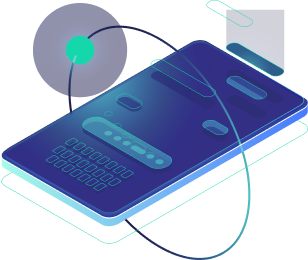
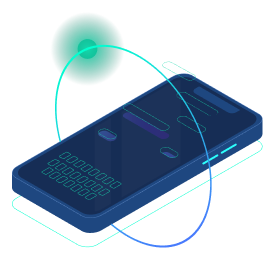
update home

diff --git a/components/pages/home/index.scss b/components/pages/home/index.scss
@@ -42,7 +42,7 @@
         left: 0;
         width: 100%;
         height: 100%;
-        background: linear-gradient(to right,#1f61be98 5%, #024a9230 50%);
+        background: linear-gradient(to right, #1f61be98 5%, #024a9230 50%);
         opacity: 0.5;
       }
       .banner-content {
@@ -124,28 +124,12 @@
     }
 
     .media {
-      padding-bottom: rem(62);
+      padding: rem(50);
       position: relative;
 
       .image {
         height: auto !important;
-        margin: 0 auto;
         max-width: 100%;
-      }
-      .gradient-shadow {
-        height: 80vw;
-        left: -5%;
-        position: absolute;
-        top: -15%;
-        // transform: translate(-50%, -50%);
-        width: 80vw;
-        &::before {
-          height: 80vw;
-          width: 80vw;
-        }
-        &::after {
-          display: none;
-        }
       }
     }
 
@@ -361,28 +345,30 @@
       justify-content: center;
       margin-top: rem(48);
 
-      .image {
-        margin: 0 auto rem(24);
-      }
-
-      .title {
-        font-size: rem(22);
-        font-weight: 700;
-      }
-
-      .desc {
-        font-size: rem(14);
-        font-weight: 400;
-        line-height: rem(22);
-        margin-top: rem(8);
-      }
-
       li {
-        background-color: rgba($color: $gray-1, $alpha: 0.05);
+        background-color: rgba($color: $blue-light, $alpha: 0.05);
         border: solid rem(1) rgba($color: $gray-1, $alpha: 0.1);
         border-radius: rem(16);
-        padding: rem(24) rem(16);
+        padding: rem(114) rem(16) rem(34) rem(16);
         text-align: start;
+        position: relative;
+        .image {
+          position: absolute;
+          right: 0;
+          top: 0;
+        }
+
+        .title {
+          font-size: rem(36);
+          font-weight: 700;
+        }
+
+        .desc {
+          font-size: rem(16);
+          font-weight: 400;
+          line-height: rem(22);
+          margin-top: rem(8);
+        }
       }
     }
   }
@@ -631,7 +617,7 @@
       }
 
       li {
-        background-color: rgba($color: $gray-1, $alpha: 0.05);
+        background-color: rgba($color: $blue-light, $alpha: 0.05);
         border: solid rem(1) rgba($color: $gray-1, $alpha: 0.1);
         border-radius: rem(16);
         padding: rem(24) rem(16) rem(16);
@@ -685,19 +671,18 @@
         left: 0;
         right: 0;
         bottom: 0;
-        background-image: url("/images/home/call-to-action-bg.png");
-        border-radius: 0 0 rem(16) rem(16);
+        border-radius: 0 0 1rem 1rem;
         background-size: 100% 100%;
         background-repeat: no-repeat;
         background-position: center bottom;
-        width: 100%;
+        width: 89%;
         padding-bottom: rem(30);
-        padding-top: 17%;
         z-index: -2;
+        margin: auto;
         .image {
-          margin: 0 auto;
+          margin: auto;
           height: auto !important;
-          max-width: 30%;
+          max-width: 90%;
         }
       }
     }
@@ -724,7 +709,7 @@
 
     .introduction {
       .media {
-        padding-bottom: rem(102);
+        padding: rem(100);
       }
 
       .banner {
@@ -755,12 +740,6 @@
       .wrapper {
         justify-content: center;
         padding: rem(64) rem(32) 90% rem(32);
-        .img-wrapper {
-          padding-top: 10%;
-          .image {
-            max-width: 35%;
-          }
-        }
       }
     }
   }
@@ -803,7 +782,7 @@
         }
       }
       .media {
-        padding-bottom: rem(150);
+        padding: rem(200);
       }
 
       .banner {
@@ -859,12 +838,6 @@
       }
       .wrapper {
         justify-content: center;
-        padding: rem(64) rem(32) 70% rem(32);
-        .img-wrapper {
-          .image {
-            max-width: 30%;
-          }
-        }
       }
     }
   }
@@ -942,12 +915,12 @@
       }
 
       .media {
-        padding-bottom: 0;
+        padding: rem(150);
         position: absolute;
         bottom: rem(30);
         right: -5%;
         max-width: 60%;
-        top: 54%;
+        top: 48%;
 
         .image {
           height: auto !important;
@@ -1005,6 +978,9 @@
       .list {
         li {
           width: calc(100% / 3 - rem(32 * 2 / 3));
+          .image {
+            z-index: -1;
+          }
         }
       }
     }
@@ -1087,29 +1063,28 @@
         min-height: rem(478);
         padding: rem(64) 50% rem(64) rem(64);
         background-size: 80% 100%;
-        background-image: url("/images/home/call-to-action-bg.png");
         background-repeat: no-repeat;
         background-position: right bottom;
-
+        overflow: hidden;
+        top: -20%;
         .heading {
           text-align: left;
         }
         .img-wrapper {
-          background-image: none;
-          top: 0;
-          // left: 0;
-          margin: 0;
-          padding-top: 2%;
-          z-index: 3;
-          max-width: 50%;
-          transform: translateX(90%);
-          .image {
-            margin-top: 3%;
-            // margin-left: 60%;
-            max-width: rem(200) !important;
-          }
+          left: unset;
+          right: -8%;
+          width: 79%;
+          top: -102px;
         }
       }
+    }
+  }
+}
+
+@media (min-width: rem(1100)) {
+  .introduction {
+    .media {
+      padding: rem(250);
     }
   }
 }
@@ -1135,17 +1110,17 @@
       }
 
       .media {
-        padding-bottom: 0;
         position: absolute;
         bottom: rem(30);
-        right: -3%;
-        top: 50%;
+        right: 10%;
+        top: 25%;
+        padding: rem(360);
 
         .image {
           height: auto !important;
           margin: 0 auto;
           // width: 80%;
-          max-width: rem(906);
+          max-width: rem(380);
         }
         .gradient-shadow {
           height: 80vw;
@@ -1242,13 +1217,6 @@
         }
       }
     }
-    .call-to-action {
-      .wrapper {
-        .image {
-          max-width: 16% !important;
-        }
-      }
-    }
   }
 }
 
@@ -1275,15 +1243,6 @@
       .text {
         font-size: rem(20);
       }
-
-      .media {
-        padding-bottom: 0;
-        position: absolute;
-        bottom: rem(30);
-        right: -5%;
-        // max-width: 80%;
-        top: 55%;
-      }
     }
     .description {
       .media {
@@ -1300,20 +1259,6 @@
     .introduction {
       .slogan {
         font-size: rem(88);
-      }
-
-      .media {
-        padding-bottom: 0;
-        position: absolute;
-        bottom: rem(30);
-        right: -15%;
-        // max-width: 80%;
-        top: 57%;
-
-        .image {
-          height: auto !important;
-          margin: 0 auto;
-        }
       }
     }
     .description {

diff --git a/components/pages/home/index.tsx b/components/pages/home/index.tsx
@@ -19,23 +19,23 @@ export default function Component() {
                 {content.banner.button}
               </Link>
             </div>
-            <div className="bg">
-            </div>
-              <Image
-                src="/images/home/circle-top.png"
-                alt=""
-                className="circle-top"
-                height={300}
-                width={600}
-              />
-              <Image
-                src="/images/home/circle-bottom.png"
-                alt=""
-                className="circle-bottom"
-                height={300}
-                width={600}
-              />
+            <div className="bg"></div>
+            <Image
+              src="/images/home/circle-top.png"
+              alt=""
+              className="circle-top"
+              height={300}
+              width={600}
+            />
+            <Image
+              src="/images/home/circle-bottom.png"
+              alt=""
+              className="circle-bottom"
+              height={300}
+              width={600}
+            />
           </div>
+
           <p
             dangerouslySetInnerHTML={{ __html: content.hero_section.slogan }}
             className="slogan"
@@ -47,6 +47,7 @@ export default function Component() {
           <Link className="btn" href={content.hero_section.link}>
             {content.hero_section.btn}
           </Link>
+
           <div className="media">
             <Image
               src="/images/home/introduction-image.png"
@@ -55,7 +56,6 @@ export default function Component() {
               height={754}
               width={1328}
             />
-            <span className="gradient-shadow " />
           </div>
         </div>
 
@@ -162,13 +162,13 @@ export default function Component() {
                   src={item.image}
                   alt={item.title}
                   className="image"
-                  height={130}
-                  width={153}
+                  height={170}
+                  width={193}
                 />
-                <h4
+                <p
                   className="title"
                   dangerouslySetInnerHTML={{ __html: item.title }}
-                ></h4>
+                ></p>
                 <p
                   className="desc"
                   dangerouslySetInnerHTML={{ __html: item.description }}
@@ -306,12 +306,10 @@ export default function Component() {
               {content.call_to_action.btn}
             </a>
             <div className="img-wrapper">
-              <Image
+              <img
                 src={content.call_to_action.image}
                 alt={content.call_to_action.heading}
                 className="image"
-                height={414}
-                width={362}
               />
             </div>
           </div>
